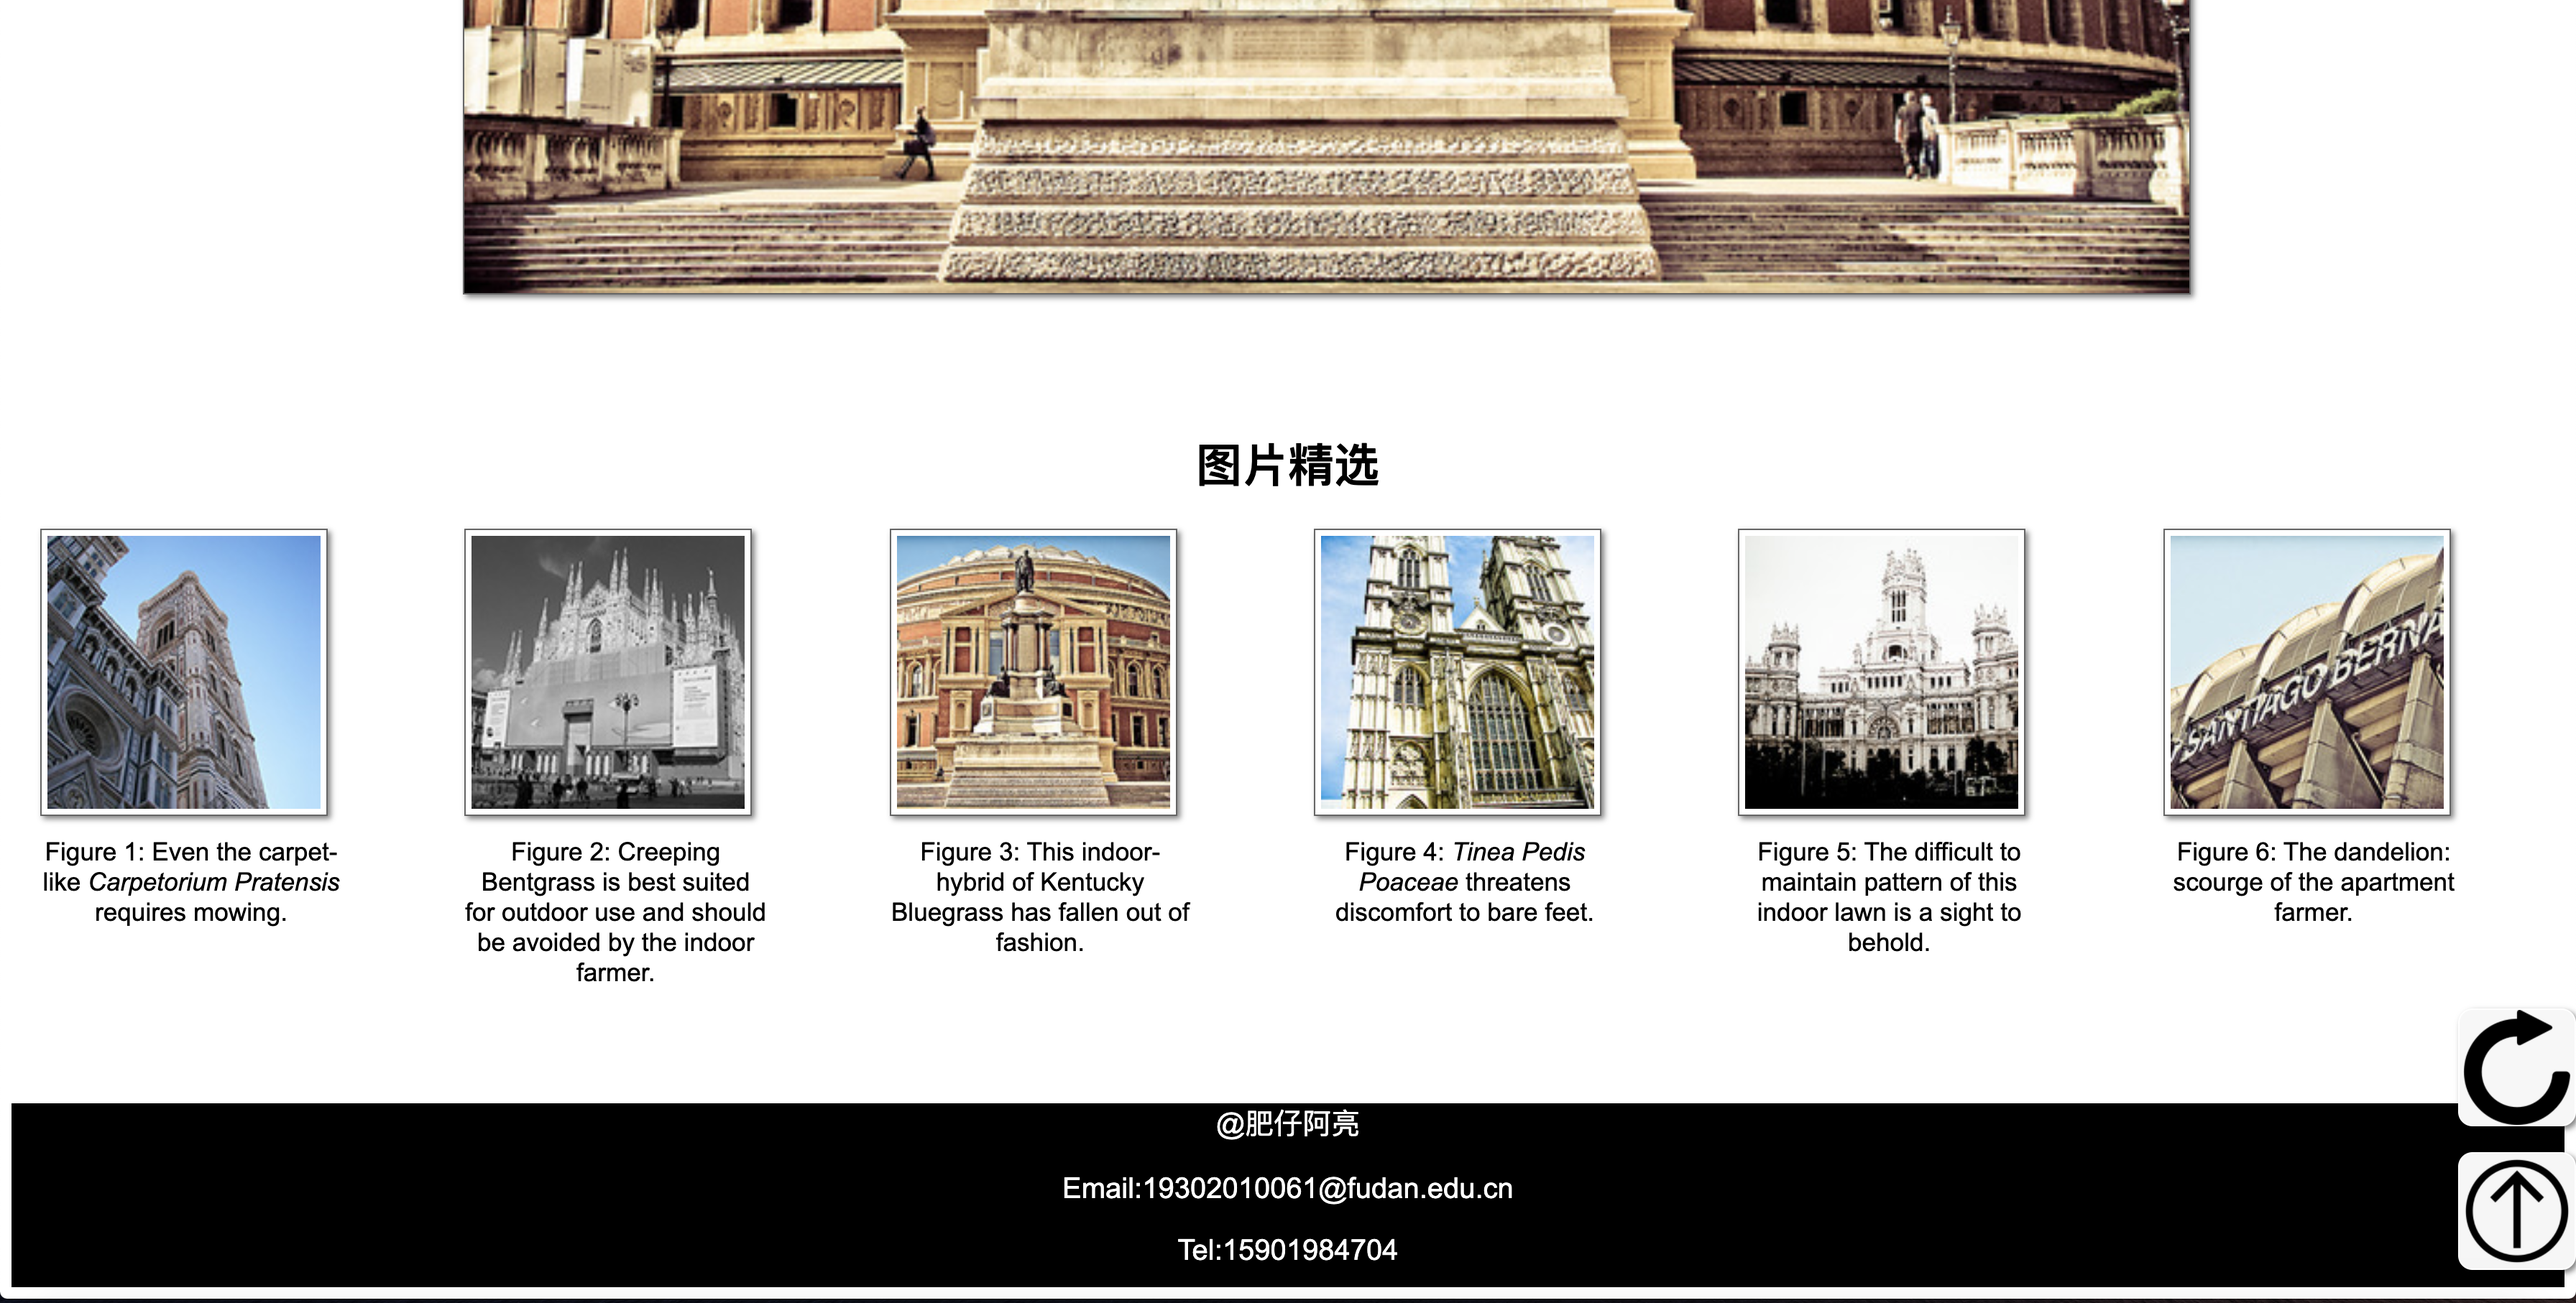
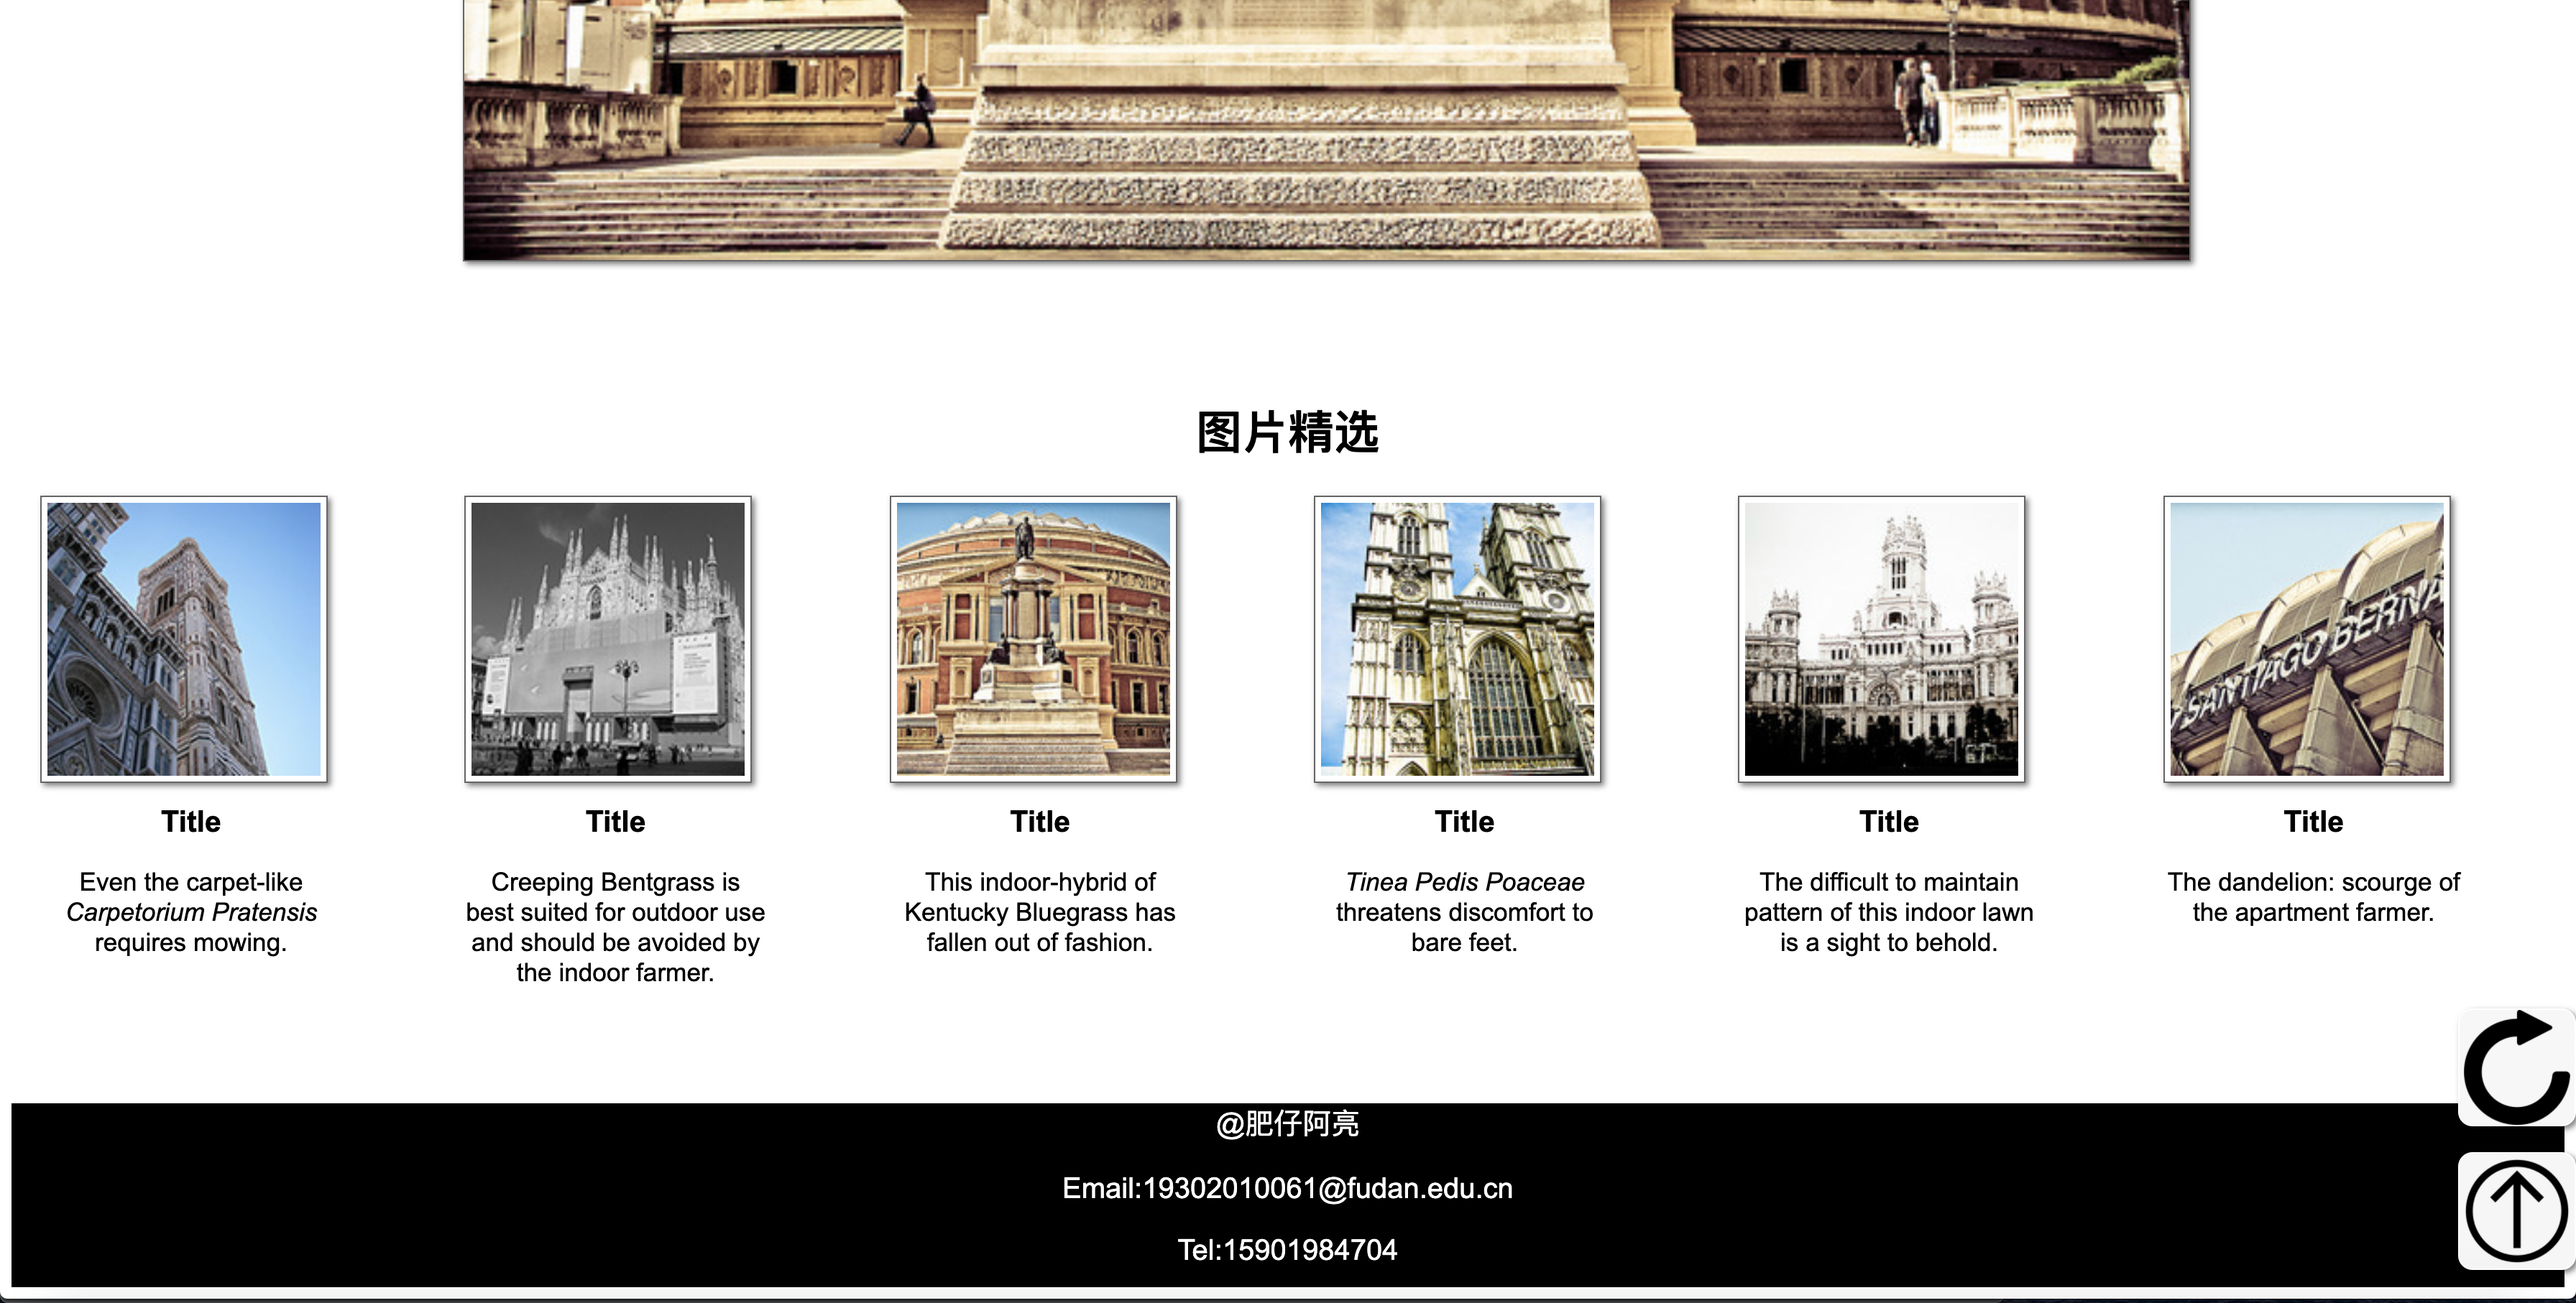
modify home page

diff --git a/src/Home.html b/src/Home.html
@@ -36,27 +36,27 @@
     <div class="gallery">
         <figure>
             <a href="Details.html"><img src="../images/Home/first.jpg" alt="Carpet Grass" width="190" height="190"></a>
-            <figcaption>Figure 1: Even the carpet-like <em>Carpetorium Pratensis</em> requires mowing.</figcaption>
+            <figcaption><h3>Title</h3>Even the carpet-like <em>Carpetorium Pratensis</em> requires mowing.</figcaption>
         </figure>
         <figure>
             <a href="Details.html"><img src="../images/Home/second.jpg" alt="Bentgrass" width="190" height="190"></a>
-            <figcaption>Figure 2: Creeping Bentgrass is best suited for outdoor use and should be avoided by the indoor farmer.</figcaption>
+            <figcaption><h3>Title</h3>Creeping Bentgrass is best suited for outdoor use and should be avoided by the indoor farmer.</figcaption>
         </figure>
         <figure>
             <a href="Details.html"><img src="../images/Home/third.jpg" alt="Bluegrass" width="190" height="190"></a>
-            <figcaption>Figure 3: This indoor-hybrid of Kentucky Bluegrass has fallen out of fashion. </figcaption>
+            <figcaption><h3>Title</h3>This indoor-hybrid of Kentucky Bluegrass has fallen out of fashion. </figcaption>
         </figure>
         <figure>
             <a href="Details.html"><img src="../images/Home/fourth.jpg" alt="Leaves" width="190" height="190"></a>
-            <figcaption>Figure 4: <em>Tinea Pedis Poaceae</em> threatens discomfort to bare feet. </figcaption>
+            <figcaption><h3>Title</h3><em>Tinea Pedis Poaceae</em> threatens discomfort to bare feet. </figcaption>
         </figure>
         <figure>
             <a href="Details.html"><img src="../images/Home/fifth.jpg" alt="Pattern Grass" width="190" height="190"></a>
-            <figcaption>Figure 5: The difficult to maintain pattern of this indoor lawn is a sight to behold. </figcaption>
+            <figcaption><h3>Title</h3>The difficult to maintain pattern of this indoor lawn is a sight to behold. </figcaption>
         </figure>
         <figure>
             <a href="Details.html"><img src="../images/Home/sixth.jpg" alt="Dandelion" width="190" height="190"></a>
-            <figcaption>Figure 6: The dandelion: scourge of the apartment farmer. </figcaption>
+            <figcaption><h3>Title</h3>The dandelion: scourge of the apartment farmer. </figcaption>
         </figure>
     </div>
     <div style="position: fixed;bottom: 120px;right: 0;">
